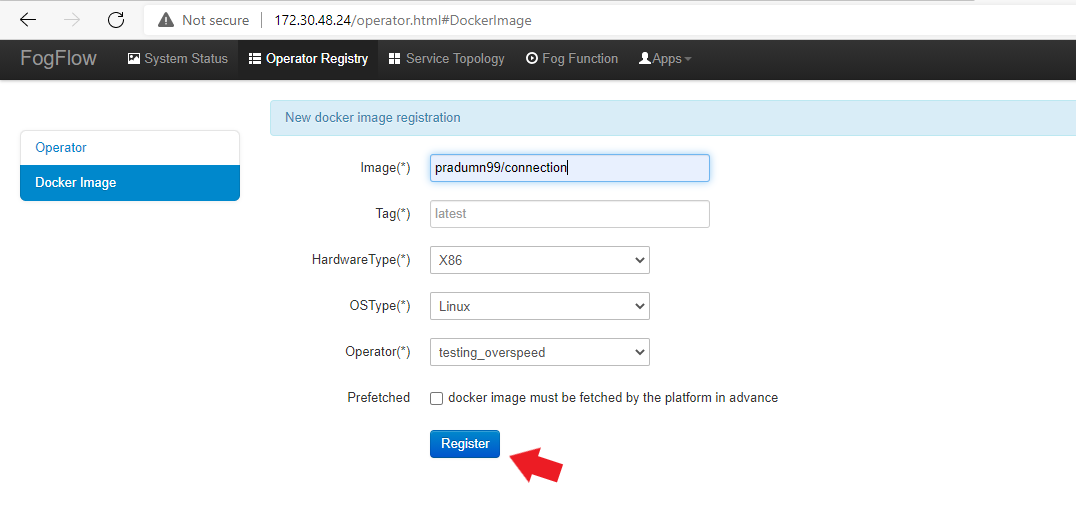
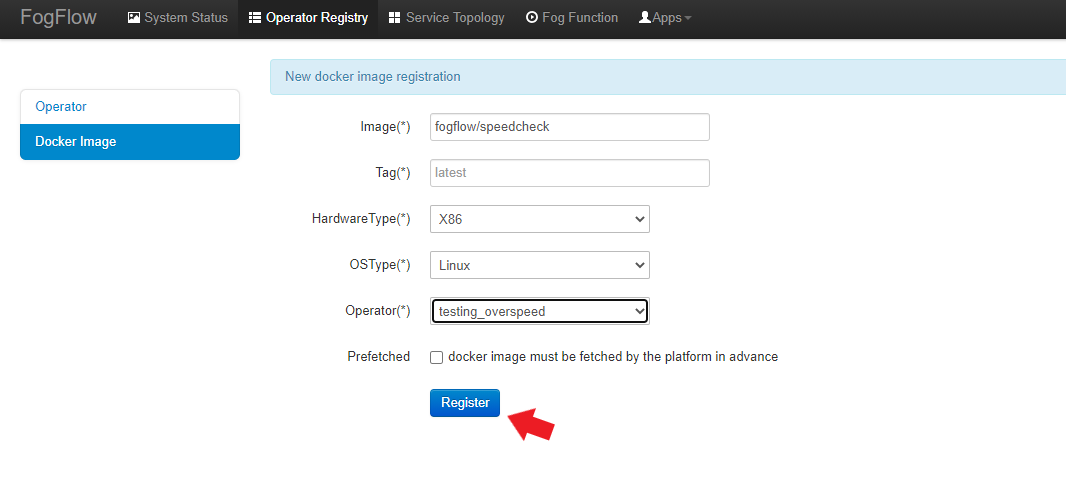
Comment Incorporation

Changed region(s): [[0.0, 0.0, 1.0, 0.9054]]

diff --git a/doc/en/source/k8sIntegrationYAML.rst b/doc/en/source/k8sIntegrationYAML.rst
@@ -104,7 +104,7 @@ In order to launch a task instance associated with a fog function, follow below 
 
 .. code-block:: console
 
-	pradumn99/connection
+	fogflow/speedcheck:latest
    
   	The above operator will notify Fogflow, When speed of a vehicle goes beyond 50.
 
